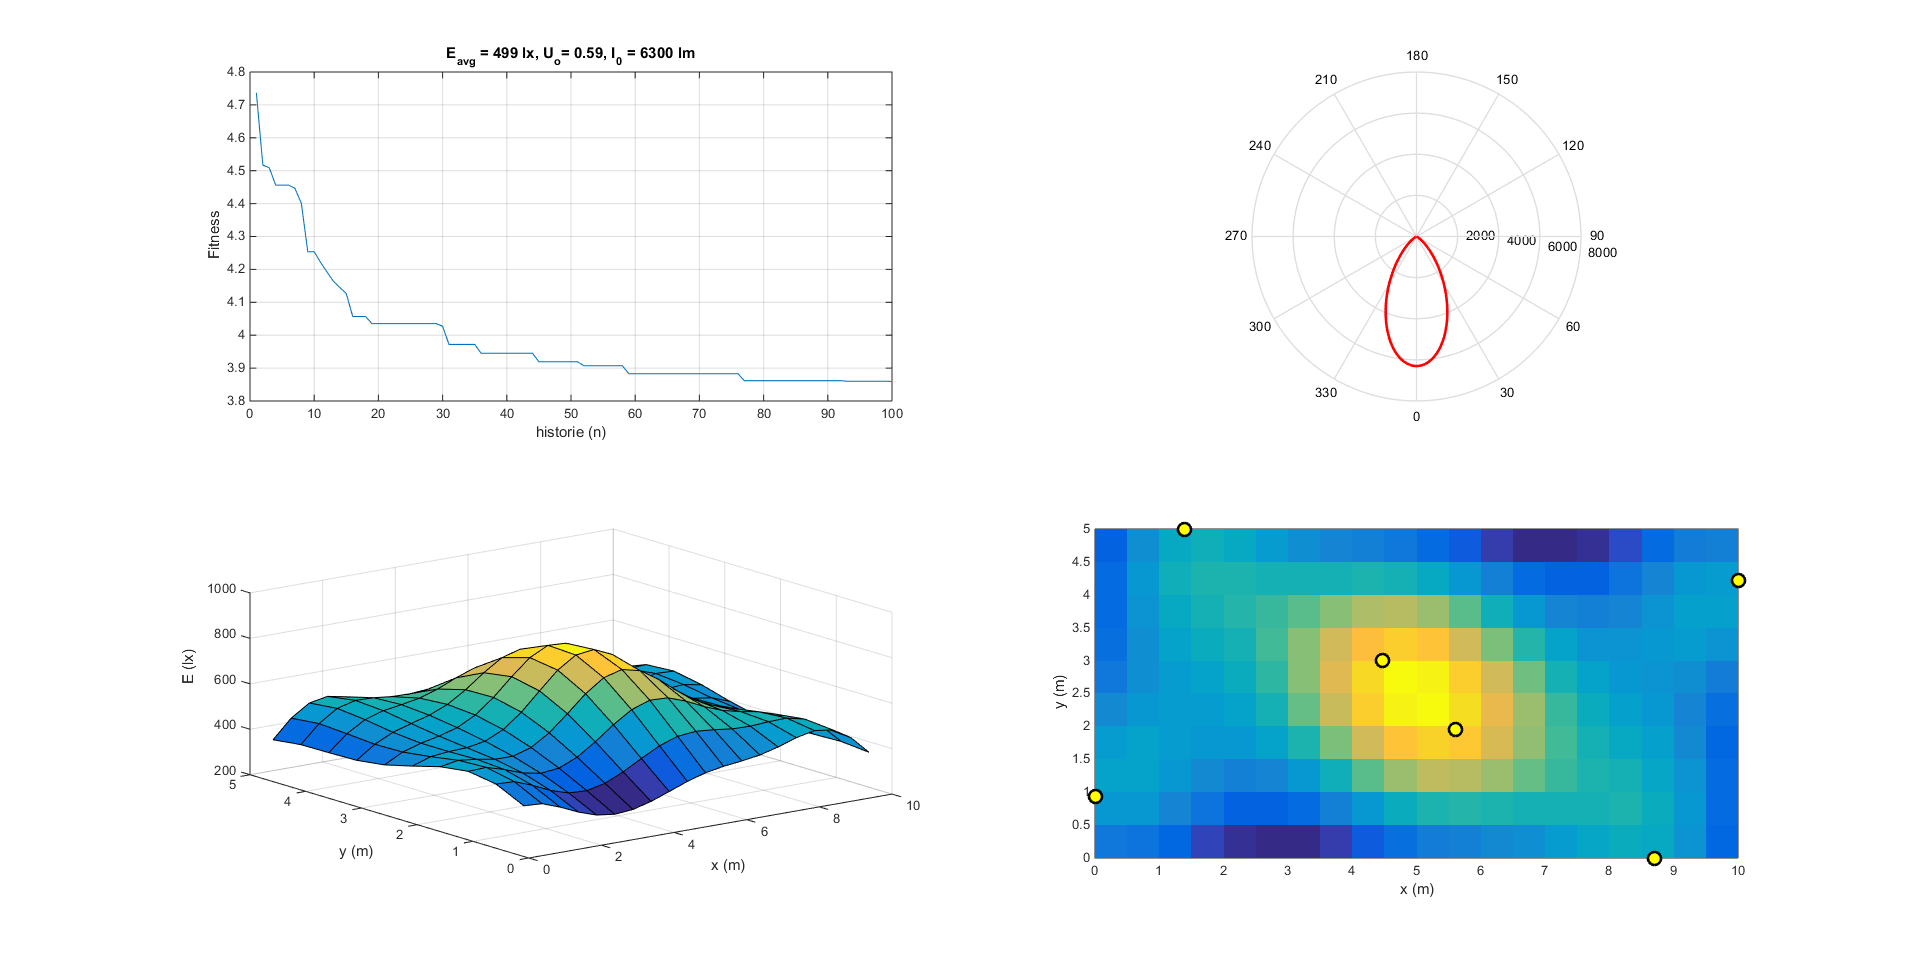
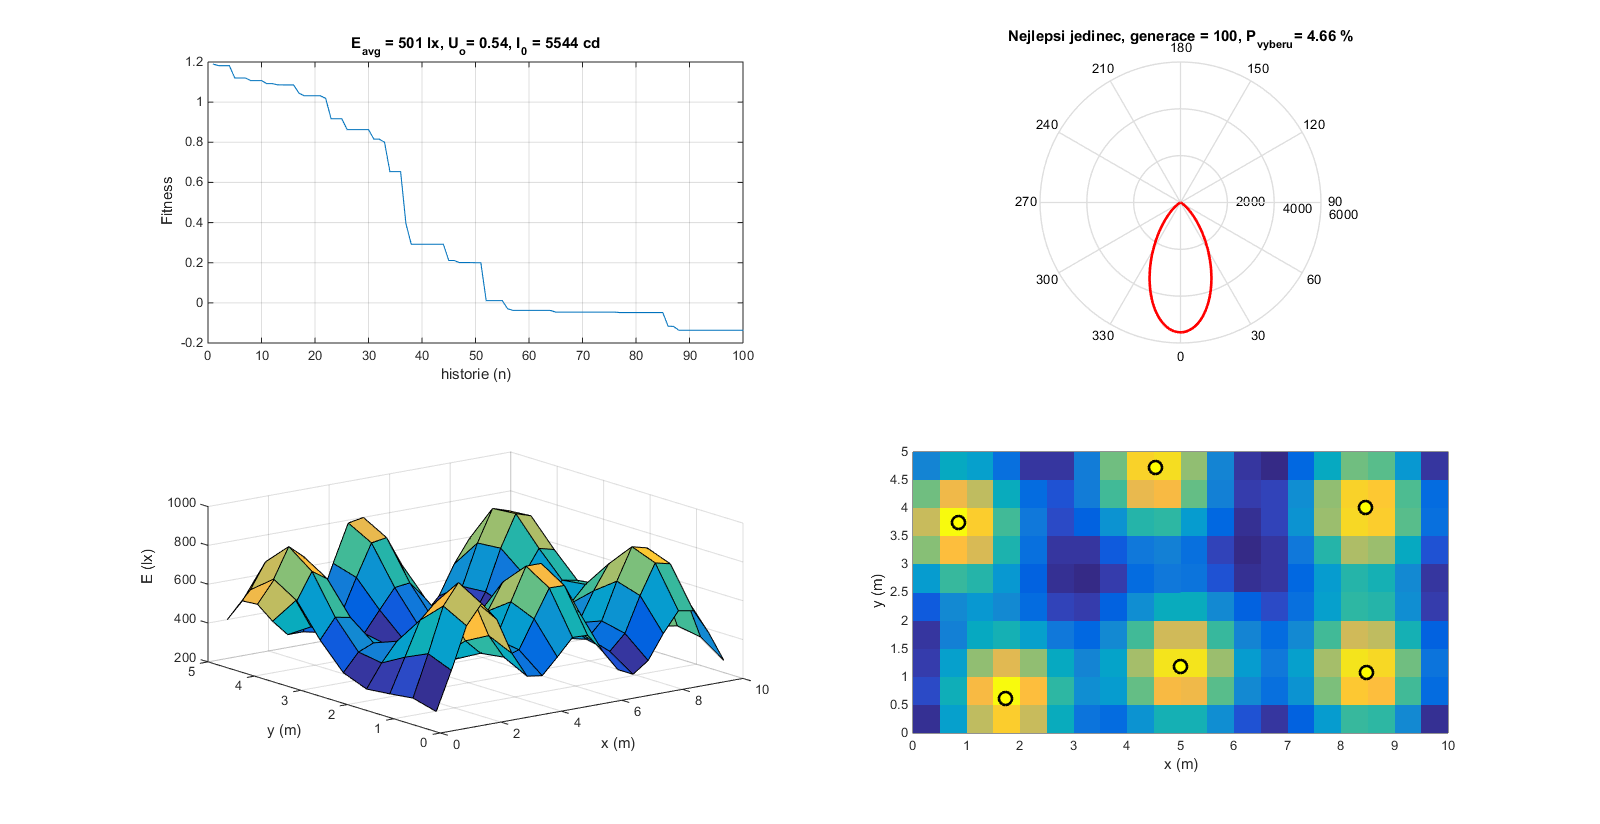
Vygenerovany vysledky rozmistovani svitidel pro dfinovanou krivku svitivosti.

diff --git a/LightSvetlo2015/GAsvitidlaMatice.m b/LightSvetlo2015/GAsvitidlaMatice.m
@@ -64,7 +64,7 @@ close;
 %Pocet svitidel:
                 svt.N = 6;
 %Koeficienty charakteristicke funkce svitivosti (nejvyssi mocnina je vlevo)
-                svt.fc =[1, 0, 3, 0, 0, 2];
+                svt.fc =[1, 0, 1, 0.5, 0, 1];
                 svt.I0max = svt.I0max/((svt.fc(1)+ svt.fc(2)).^svt.fc(3));
                 svt.I0min = svt.I0min/((svt.fc(1)+ svt.fc(2)).^svt.fc(3));
 %Vyneseni polarniho grafu
@@ -419,7 +419,7 @@ for generace = 1:1:pop.gen
     pop.sym = (sum((bod.E(:,1:bod.podIDX/2) - bod.E(:,bod.podIDX:-1:(bod.podIDX/2+1))).^2, 2).^0.5)./pop.Eavg;
     
     %Vysledna fitness
-    pop.FIT = (1 + ((10*(target.Uo-pop.Uo)).^2) + pop.var + pop.sym + (0.1*(pop.Eavg-target.Eavg)).^2).*pop.dna(:,(2*svt.N)+1);
+    pop.FIT = (((10*(target.Uo-pop.Uo)).^2) + pop.var + (0.1*(pop.Eavg-target.Eavg)).^2);
     %pop.FIT = (1 + pop.var + (0.1*(pop.Eavg-target.Eavg)).^2).*pop.dna(:,(2*svt.N)+1).^2;
     
     %Pravdepodobnosti vyberu clena populace  jako rodice
@@ -435,7 +435,7 @@ for generace = 1:1:pop.gen
     subplot(2,2,1)
     pop.fitness(generace:end) = log10(pop.FIT(IDX));
     plot(pop.fitness);
-    title(sprintf('E_{avg} = %0.0f lx, U_{o}= %0.2f, I_0 = %0.0f lm', pop.Eavg(IDX), pop.Uo(IDX), pop.dna(IDX,(2*svt.N)+1)));
+    title(sprintf('E_{avg} = %0.0f lx, U_{o}= %0.2f, I_0 = %0.0f cd', pop.Eavg(IDX), pop.Uo(IDX), pop.dna(IDX,(2*svt.N)+1)));
     xlabel('historie (n)')
     ylabel('Fitness');
     grid on;
